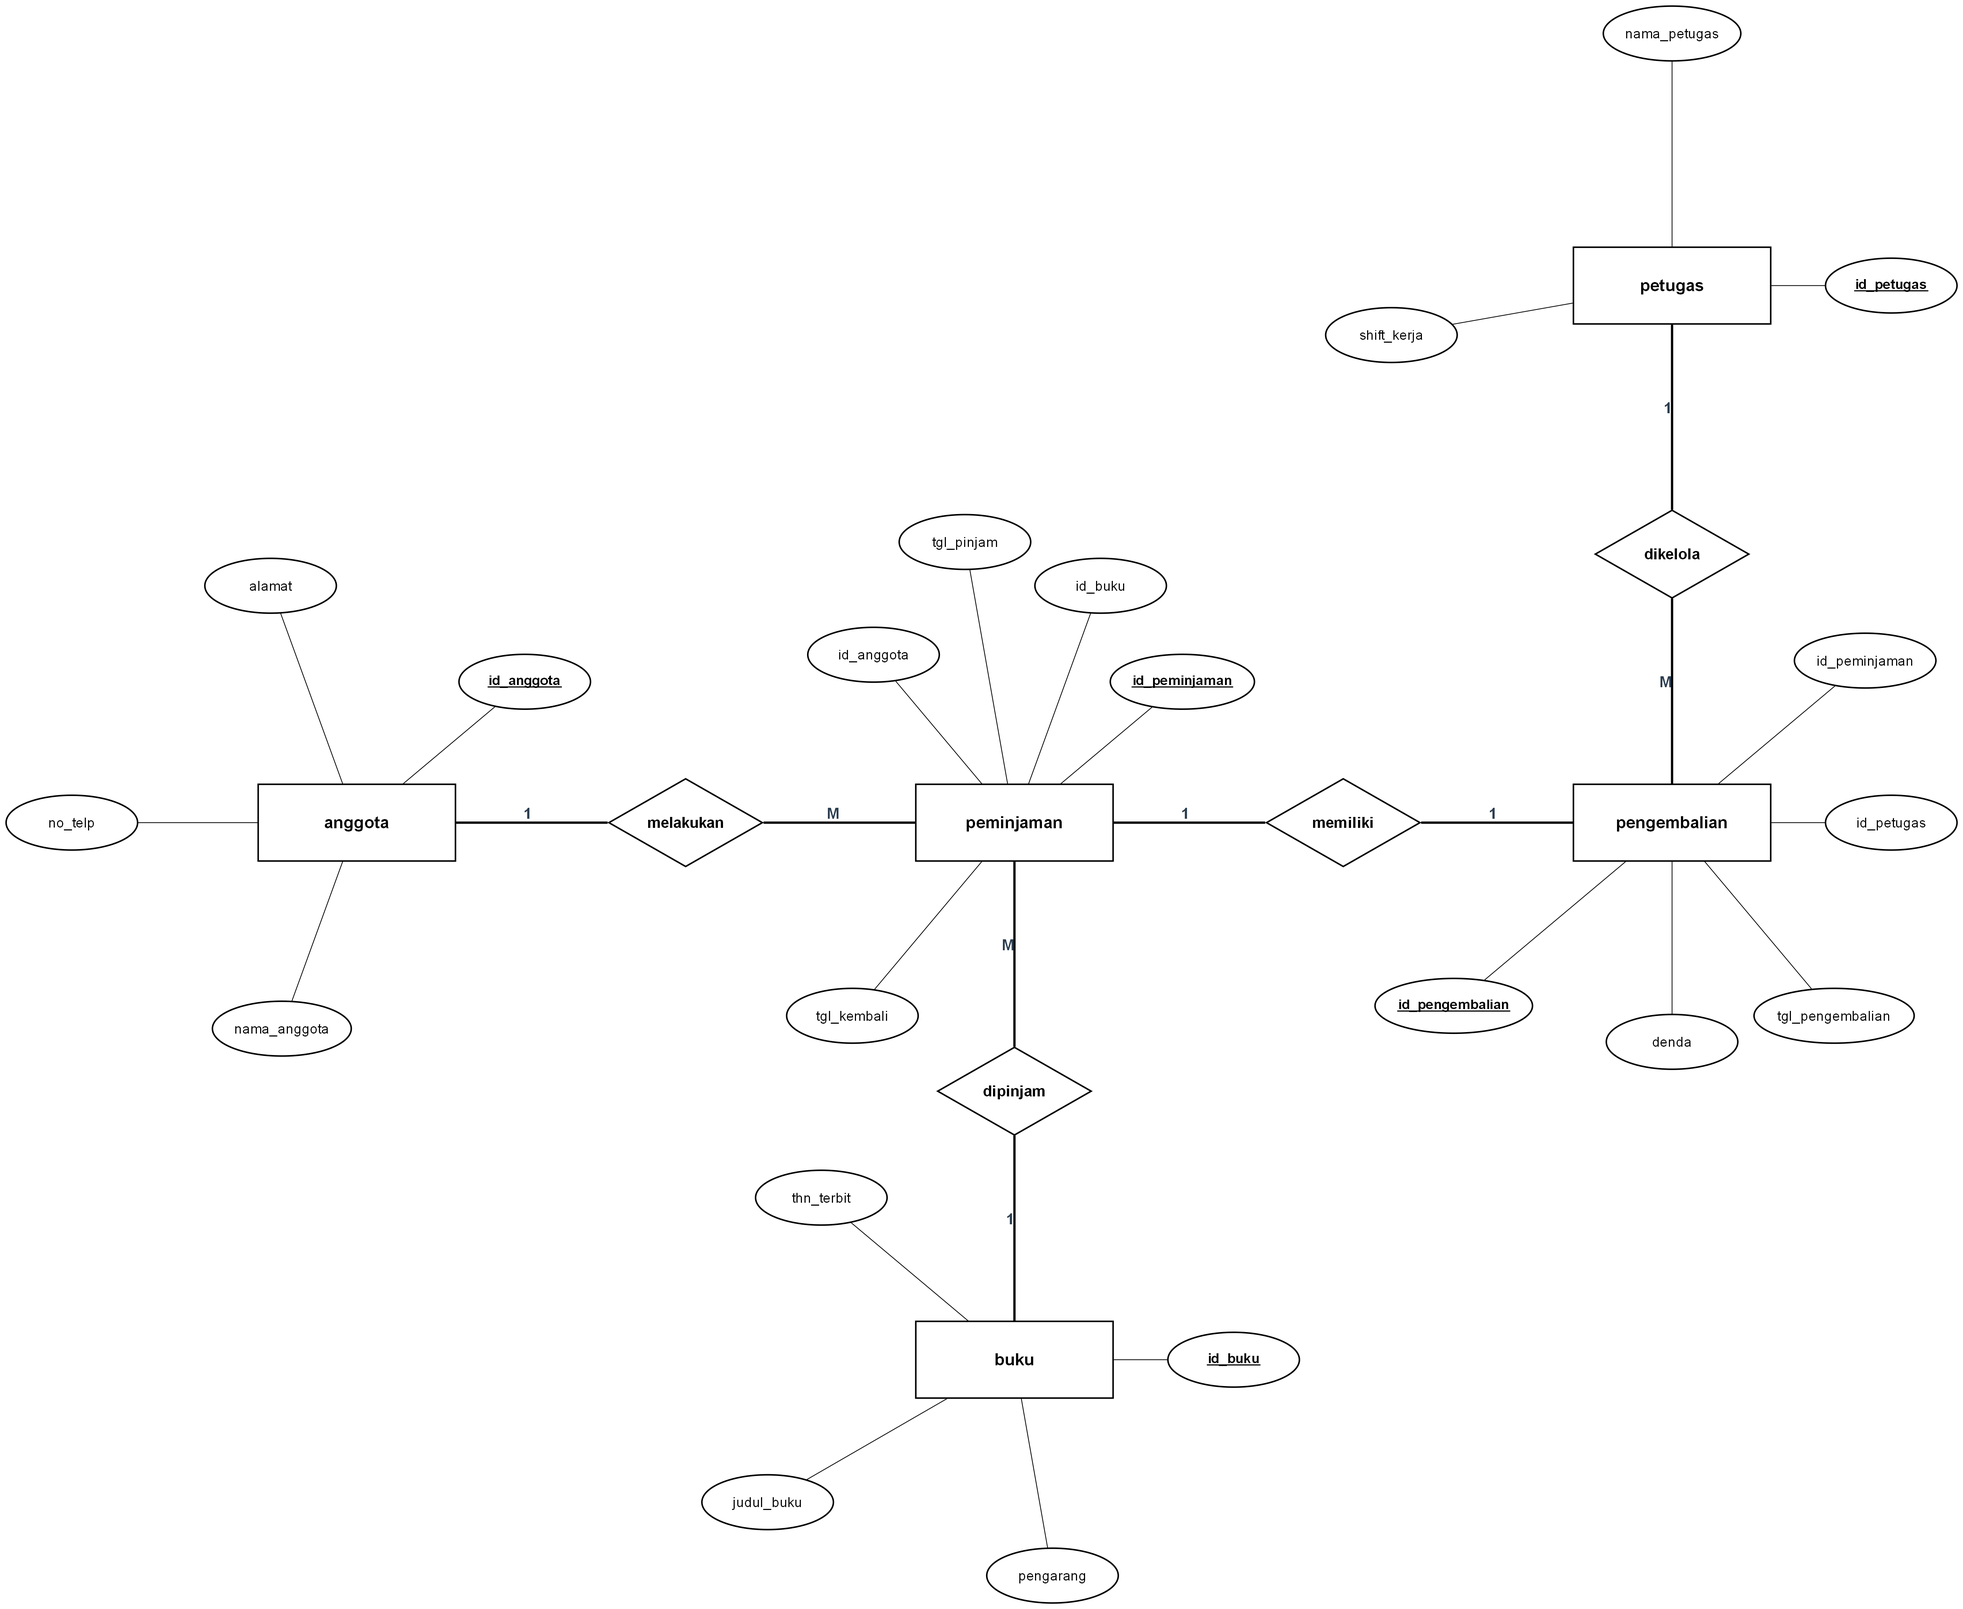
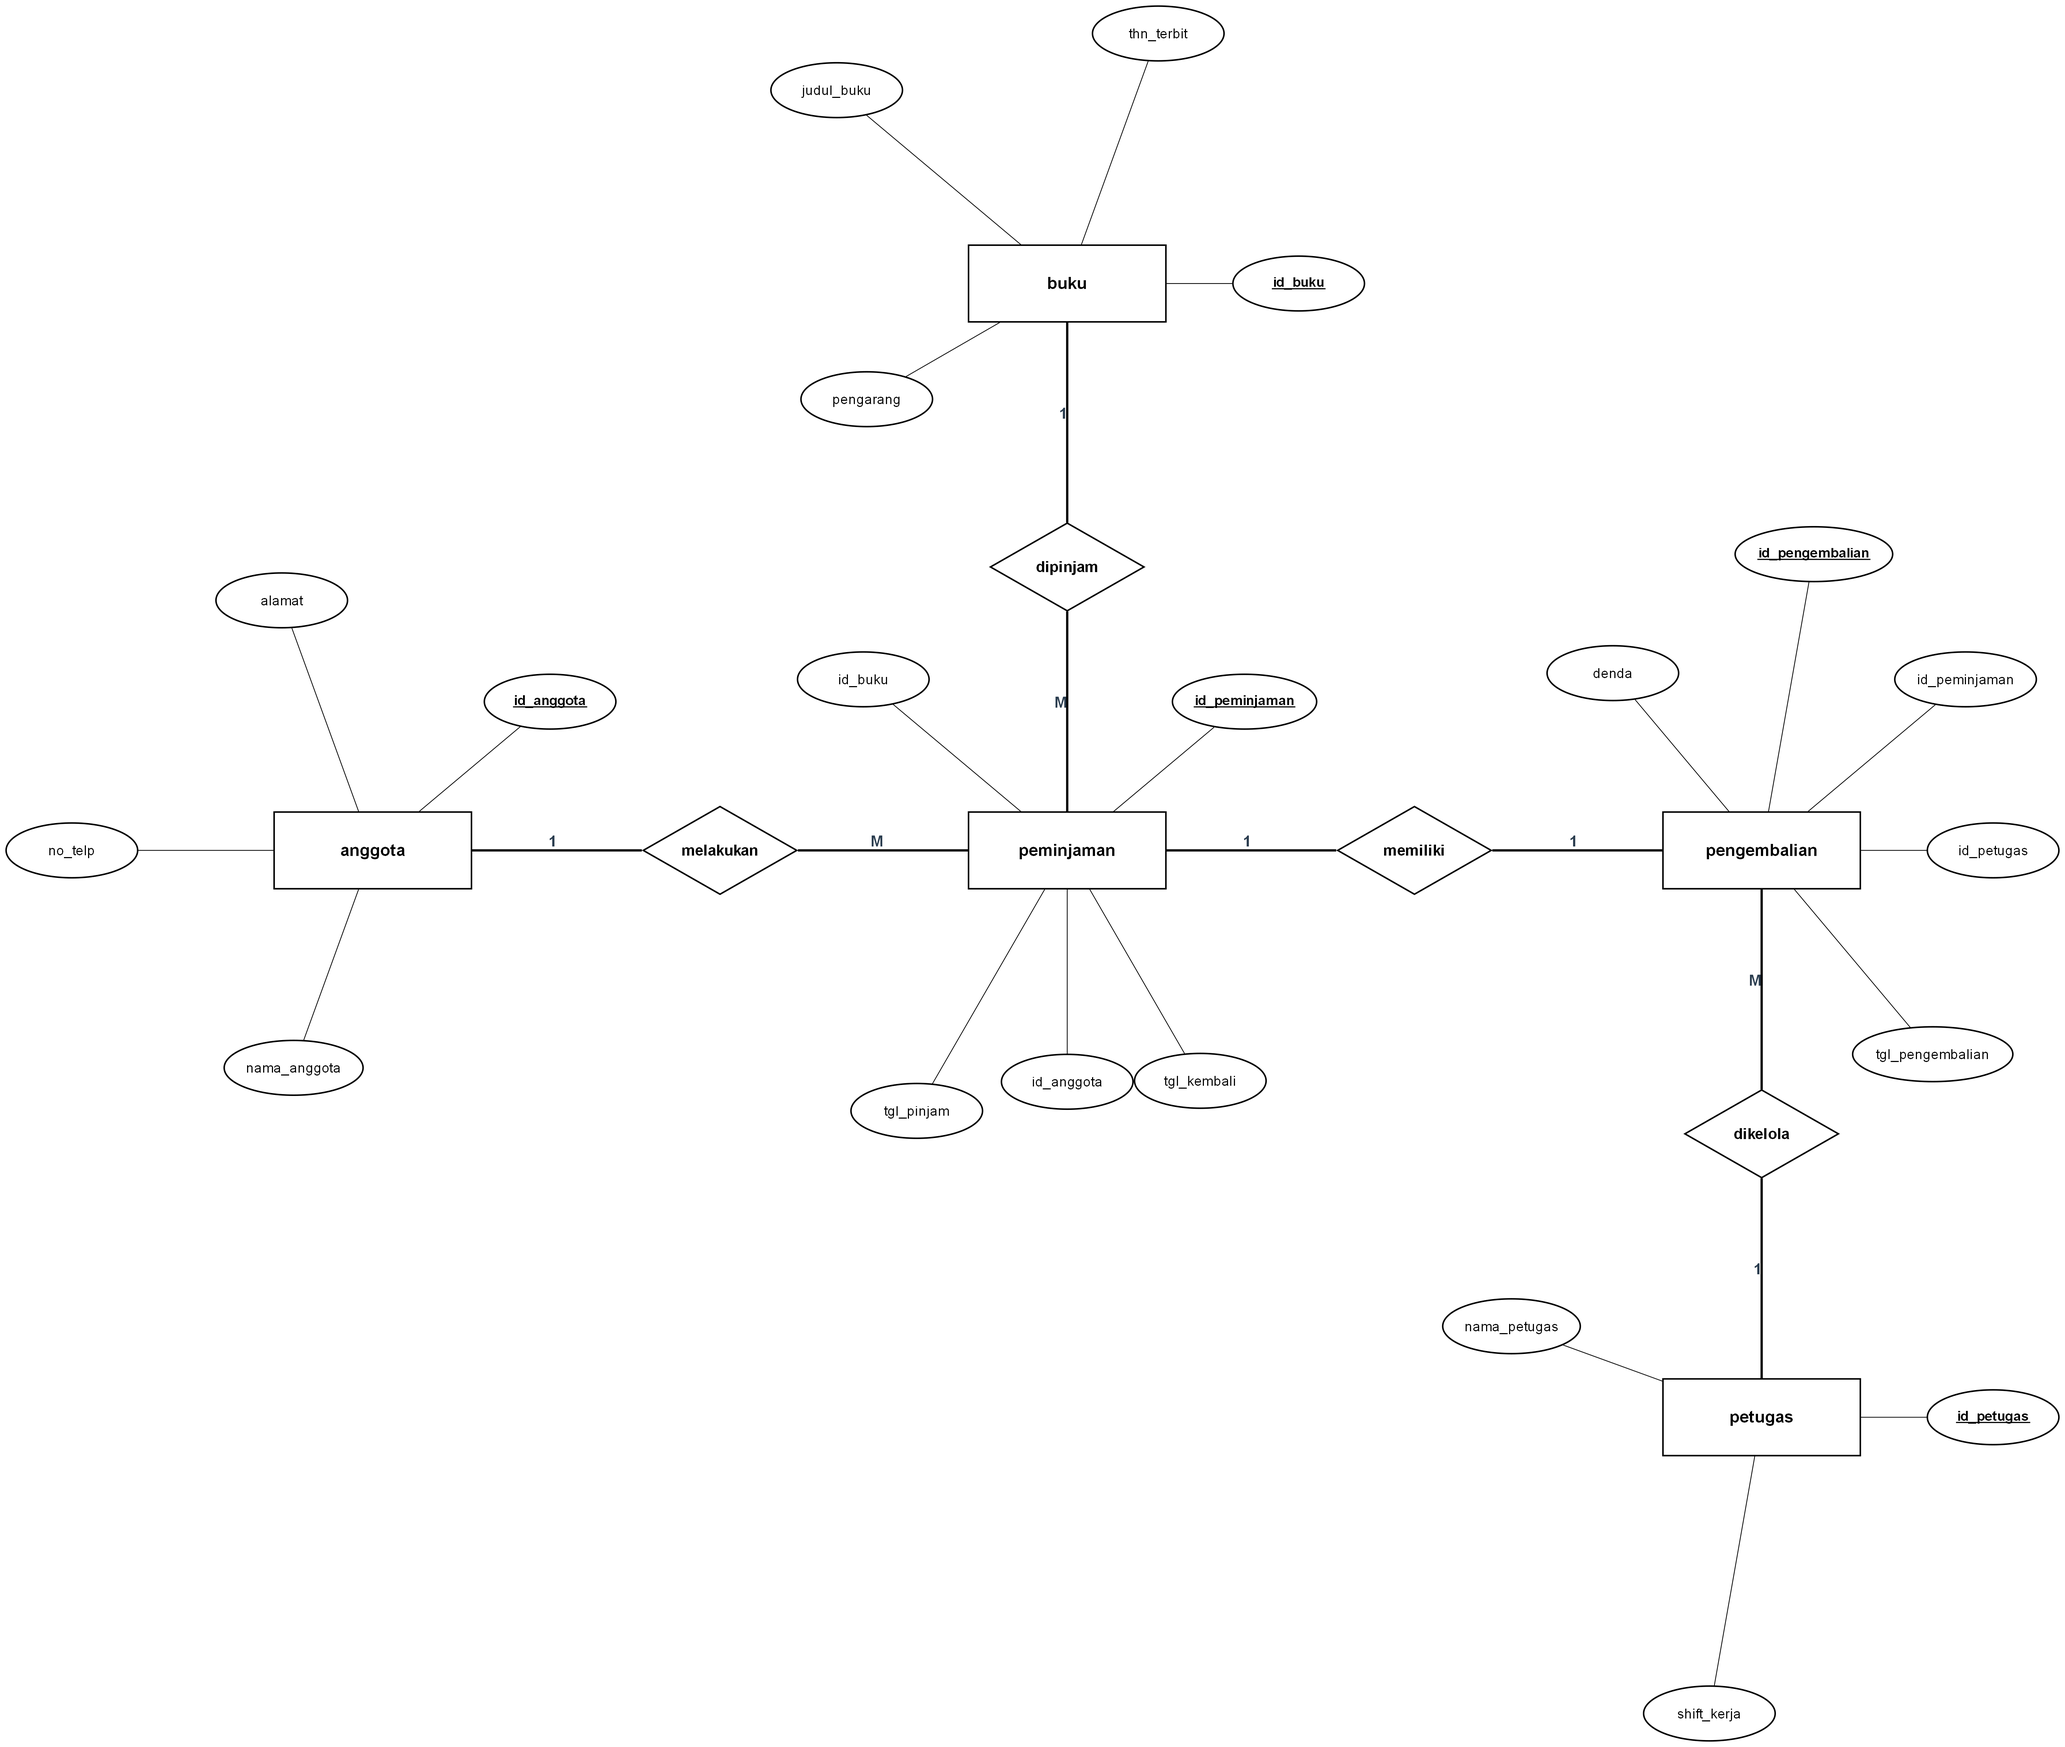
menambahkan fitur zoom in dan zoom out pada erd-builder

diff --git a/static/js/erd-builder.js b/static/js/erd-builder.js
@@ -10,6 +10,10 @@ let entityCounter = 0;
 let relationshipCounter = 0;
 let currentSVG = null;
 let graphviz = null;
+let currentZoom = 1.0; // Zoom level (1.0 = 100%)
+const ZOOM_STEP = 0.1; // 10% per step
+const MIN_ZOOM = 0.3; // 30%
+const MAX_ZOOM = 3.0; // 300%
 
 // Mode & Context
 let currentMode = 'manual'; // 'manual', 'from_request', 'edit'
@@ -53,6 +57,9 @@ window.addEventListener('load', async function() {
         renderEntitiesForm();
         renderRelationshipsForm();
     }
+
+    //SETUP ZOOM CONTROLS
+     setupZoomControls();
 });
 
 // Add Entity
@@ -465,6 +472,9 @@ function distributeAttributes(entityName, entityPos, attrs, positions) {
     const relDirections = getRelationshipDirections(entityName, positions);
     
     const numEntities = entities.length;
+
+    const numRelations = relDirections.length; // ← TAMBAHAN: hitung jumlah relasi
+    
     let baseRadius, clearance;
     if (numEntities >= 15) {
         baseRadius = 2.0;
@@ -476,6 +486,18 @@ function distributeAttributes(entityName, entityPos, attrs, positions) {
         baseRadius = 1.5;
         clearance = 30;
     }
+    
+     // ========================================
+    // ✨ ADAPTIVE CLEARANCE + RADIUS REDUCTION
+    // ========================================
+    let radiusMultiplier = 1.0; // Default: no reduction
+    
+    if (numRelations >= 2 && numAttrs >= 5) {
+        // Entitas dengan 2+ relasi dan 5+ atribut
+        clearance = Math.max(20, clearance * 0.6);
+        console.log(`🎯 Light case for ${entityName}: clearance=${clearance}°, ${numRelations} relations, ${numAttrs} attrs`);
+    }
+    // ========================================
     
     const blockedRanges = [];
     relDirections.forEach(relDir => {
@@ -526,7 +548,13 @@ function distributeAttributes(entityName, entityPos, attrs, positions) {
     attrs.forEach((attr, i) => {
         const angle = selectedAngles[i];
         const angleRad = (angle * Math.PI) / 180;
-        const radius = baseRadius * (1.0 + (i % 3) * 0.15);
+        
+        // ========================================
+        // ✨ ADAPTIVE RADIUS dengan multiplier
+        // ========================================
+        const radiusVariance = (i % 3) * 0.15 * radiusMultiplier;
+        const radius = baseRadius * (1.0 + radiusVariance);
+        // ========================================
         
         const attrX = entityPos.x + radius * Math.cos(angleRad);
         const attrY = entityPos.y + radius * Math.sin(angleRad);
@@ -547,8 +575,8 @@ function generateDOT() {
     dot += '  layout="neato";\n';
     
     if (numEntities <= 10) {
-        dot += '  overlap="scale";\n';
-        dot += '  sep="+0.5";\n';
+        dot += '  overlap="scalexy";\n';
+        dot += '  sep="+0.2";\n';
     } else if (numEntities <= 15) {
         dot += '  overlap="scalexy";\n';
         dot += '  sep="+2.0";\n';
@@ -603,6 +631,38 @@ function generateDOT() {
             const fontcolor = 'black';
             const fontname = isPK ? 'Arial Bold' : 'Arial';
             const label = isPK ? `<<U>${attr}</U>>` : attr;
+
+            const numRelations = relationships.filter(r => 
+                r.entity1 === entityName || r.entity2 === entityName
+            ).length;
+            
+            let attrWidth = 1.2;
+            let attrHeight = 0.5;
+            let attrFontSize = 9;
+            
+            if (numRelations >= 3 && entity.attributes.length >= 8) {
+                // Kasus ekstrem: atribut lebih kecil
+                attrWidth = 0.85;
+                attrHeight = 0.38;
+                attrFontSize = 7.5;
+            }  else if (numRelations >= 3 && entity.attributes.length >= 9) {
+                // Extreme 9
+                attrWidth = 0.80;
+                attrHeight = 0.36;
+                attrFontSize = 7.5;
+            }else if (numRelations >= 3 && entity.attributes.length >= 6) {
+                attrWidth = 1.2;
+                attrHeight = 0.5;
+                attrFontSize = 8;
+            } else if (numRelations >= 2 && entity.attributes.length >= 10) {
+                attrWidth = 0.90;
+                attrHeight = 0.40;
+                attrFontSize = 7.5;
+            } else if (numRelations >= 2 && entity.attributes.length >= 8) {
+                attrWidth = 1.0;
+                attrHeight = 0.44;
+                attrFontSize = 8;
+            }
             
             dot += `  "${attrId}" [\n`;
             dot += `    shape=ellipse,\n`;
@@ -610,9 +670,9 @@ function generateDOT() {
             dot += `    fillcolor="${fillcolor}",\n`;
             dot += `    fontcolor="${fontcolor}",\n`;
             dot += `    fontname="${fontname}",\n`;
-            dot += `    fontsize=9,\n`;
-            dot += `    width=1.2,\n`;
-            dot += `    height=0.5,\n`;
+            dot += `    fontsize=${attrFontSize},\n`;
+            dot += `    width=${attrWidth},\n`;
+            dot += `    height=${attrHeight},\n`;
             dot += `    label=${label},\n`;
             dot += `    pos="${attrPosStr}"\n`;
             dot += `  ];\n`;
@@ -739,11 +799,22 @@ async function updatePreview() {
 
         currentSVG = svgWrapper.querySelector('svg');
         
+        // ============================================
+        // 🔥 CRITICAL FIX: Jangan ubah style SVG!
+        // ============================================
         if (currentSVG) {
-            currentSVG.style.maxWidth = '100%';
-            currentSVG.style.height = 'auto';
+            // HAPUS baris ini yang menyebabkan zoom out:
+            // currentSVG.style.maxWidth = '100%';
+            // currentSVG.style.height = 'auto';
+            
+            // GANTI dengan: Biarkan SVG menggunakan ukuran aslinya
+            currentSVG.removeAttribute('style');
+            
+            // Optional: Tambahkan style yang tidak mengubah ukuran
+            currentSVG.style.display = 'block';
         }
-
+        // ============================================
+        applyZoom();
         console.log('✅ Preview updated successfully');
     } catch (error) {
         console.error('❌ Error generating preview:', error);
@@ -1108,6 +1179,74 @@ async function saveERD() {
     }
 }
 
+// ========================================
+// ZOOM FUNCTION
+// ========================================
+
+// Update zoom display
+function updateZoomDisplay() {
+    const zoomDisplay = document.getElementById('zoomLevel');
+    if (zoomDisplay) {
+        zoomDisplay.textContent = `${Math.round(currentZoom * 100)}%`;
+    }
+}
+
+// Apply zoom transformation
+function applyZoom() {
+    const svgWrapper = document.querySelector('.preview-container .svg-wrapper');
+    if (svgWrapper) {
+        svgWrapper.style.transform = `scale(${currentZoom})`;
+    }
+    updateZoomDisplay();
+}
+
+// Zoom In function
+function zoomIn() {
+    if (currentZoom < MAX_ZOOM) {
+        currentZoom = Math.min(currentZoom + ZOOM_STEP, MAX_ZOOM);
+        applyZoom();
+    }
+}
+
+// Zoom Out function
+function zoomOut() {
+    if (currentZoom > MIN_ZOOM) {
+        currentZoom = Math.max(currentZoom - ZOOM_STEP, MIN_ZOOM);
+        applyZoom();
+    }
+}
+
+// Reset Zoom to 100%
+function resetZoom() {
+    currentZoom = 1.0;
+    applyZoom();
+}
+
+// Setup zoom controls (panggil saat initialization)
+function setupZoomControls() {
+    const previewContainer = document.getElementById('previewContainer');
+    if (previewContainer) {
+        // Mouse wheel zoom support (Ctrl + Scroll)
+        previewContainer.addEventListener('wheel', function(e) {
+            // Only zoom if Ctrl key is pressed
+            if (e.ctrlKey) {
+                e.preventDefault();
+                
+                if (e.deltaY < 0) {
+                    // Scroll up = Zoom in
+                    zoomIn();
+                } else {
+                    // Scroll down = Zoom out
+                    zoomOut();
+                }
+            }
+        }, { passive: false });
+    }
+    
+    // Initialize zoom display
+    updateZoomDisplay();
+}
+
 // Reset form
 function resetForm() {
     entities = [];
@@ -1128,4 +1267,7 @@ function resetForm() {
     `;
     
     document.getElementById('successMessage').style.display = 'none';
+
+    currentZoom = 1.0; // TAMBAHKAN INI
+    updateZoomDisplay(); // TAMBAHKAN INI
 }

diff --git a/static/css/erd-builder.css b/static/css/erd-builder.css
@@ -49,6 +49,9 @@ body {
 /* Left Panel - Form */
 .form-panel {
     width: 400px;
+    min-width: 400px;  /* 🔥 PENTING: Jangan biarkan form mengecil! */
+    max-width: 400px;  /* 🔥 PENTING: Lock ukuran form */
+    flex-shrink: 0;
     background: var(--bg-input);
     padding: 25px;
     overflow-y: auto;
@@ -205,6 +208,11 @@ body {
     margin-top: 10px;
 }
 
+.attribute-list label {
+    color: var(--text-primary);
+}
+
+
 .attribute-item {
     display: flex;
     justify-content: space-between;
@@ -261,6 +269,8 @@ body {
 /* Right Panel - Preview */
 .preview-panel {
     flex: 1;
+    min-width: 0;       /* Allow untuk shrink dengan scroll */
+    overflow: hidden;  
     display: flex;
     flex-direction: column;
     background: var(--bg-input);
@@ -285,27 +295,50 @@ body {
     align-items: center;
 }
 
+/* ============================================
+   🔥 FIXED: Preview Container Scrolling
+   ============================================ */
 .preview-container {
     flex: 1;
     background: white;
     border-radius: 8px;
     border: 2px solid var(--border-color);
-    overflow: auto;
+    /* PERBAIKAN UTAMA: Enable scroll horizontal & vertikal */
+    overflow: auto !important;
     position: relative;
     padding: 20px;
+    /* Tambahan untuk smooth scrolling */
+    scroll-behavior: smooth;
+    cursor: grab;
 }
 
+.preview-container:active {
+    cursor: grabbing;
+}
+
+/* SVG Wrapper - Allow content to expand naturally */
 .preview-container .svg-wrapper {
-    min-width: 100%;
-    min-height: 100%;
-    display: flex;
-    align-items: center;
-    justify-content: center;
+    display: inline-block !important;
+    width: auto !important;
+    height: auto !important;
+    min-width: 0 !important;
+    min-height: 0 !important;
+    max-width: none !important;
+    max-height: none !important;
+    transform-origin: top left;
+    transition: transform 0.3s cubic-bezier(0.4, 0, 0.2, 1);
 }
 
+/* SVG Element - Keep original size, no scaling */
 .preview-container svg {
-    display: block;
-    margin: 0 auto;
+    display: block !important;
+    /* CRITICAL: Jangan ubah ukuran SVG yang sudah di-generate */
+    width: auto !important;
+    height: auto !important;
+    max-width: none !important;
+    max-height: none !important;
+    min-width: 0 !important;
+    min-height: 0 !important;
 }
 
 .loading-overlay {
@@ -390,23 +423,39 @@ body {
     color: white;
 }
 
-/* Scrollbar */
+/* Scrollbar Styling - Enhanced untuk visibility */
 ::-webkit-scrollbar {
-    width: 8px;
-    height: 8px;
+    width: 12px;
+    height: 12px;
 }
 
 ::-webkit-scrollbar-track {
     background: var(--bg-dark);
-}
-
-::-webkit-scrollbar-thumb {
-    background: var(--success-color);
     border-radius: 4px;
 }
 
+::-webkit-scrollbar-thumb {
+    background: var(--primary-color);
+    border-radius: 4px;
+    border: 2px solid var(--bg-dark);
+}
+
 ::-webkit-scrollbar-thumb:hover {
-    background: var(--success-color);
+    background: var(--primary-hover);
+}
+
+/* Scrollbar untuk preview container (light background) */
+.preview-container::-webkit-scrollbar-track {
+    background: #f1f5f9;
+}
+
+.preview-container::-webkit-scrollbar-thumb {
+    background: var(--primary-color);
+    border: 2px solid #f1f5f9;
+}
+
+.preview-container::-webkit-scrollbar-thumb:hover {
+    background: var(--primary-hover);
 }
 
 /* Responsive Design */

diff --git a/templates/erd-builder.html b/templates/erd-builder.html
@@ -59,6 +59,16 @@
             <div class="preview-header">
                 <h3>🖼 Preview ERD</h3>
                 <div class="preview-controls">
+                    <button class="btn btn-primary" onclick="zoomOut()" title="Zoom Out">
+                        🔍−
+                    </button>
+                    <span id="zoomLevel" style="color: var(--text-primary); font-weight: 600; min-width: 60px; text-align: center; display: inline-block;">100%</span>
+                    <button class="btn btn-primary" onclick="zoomIn()" title="Zoom In">
+                        🔍+
+                    </button>
+                    <button class="btn btn-primary" onclick="resetZoom()" title="Reset Zoom">
+                        ⟲
+                    </button>
                     <button class="btn btn-info" onclick="downloadSVG()">
                         ⬇ Download SVG
                     </button>
